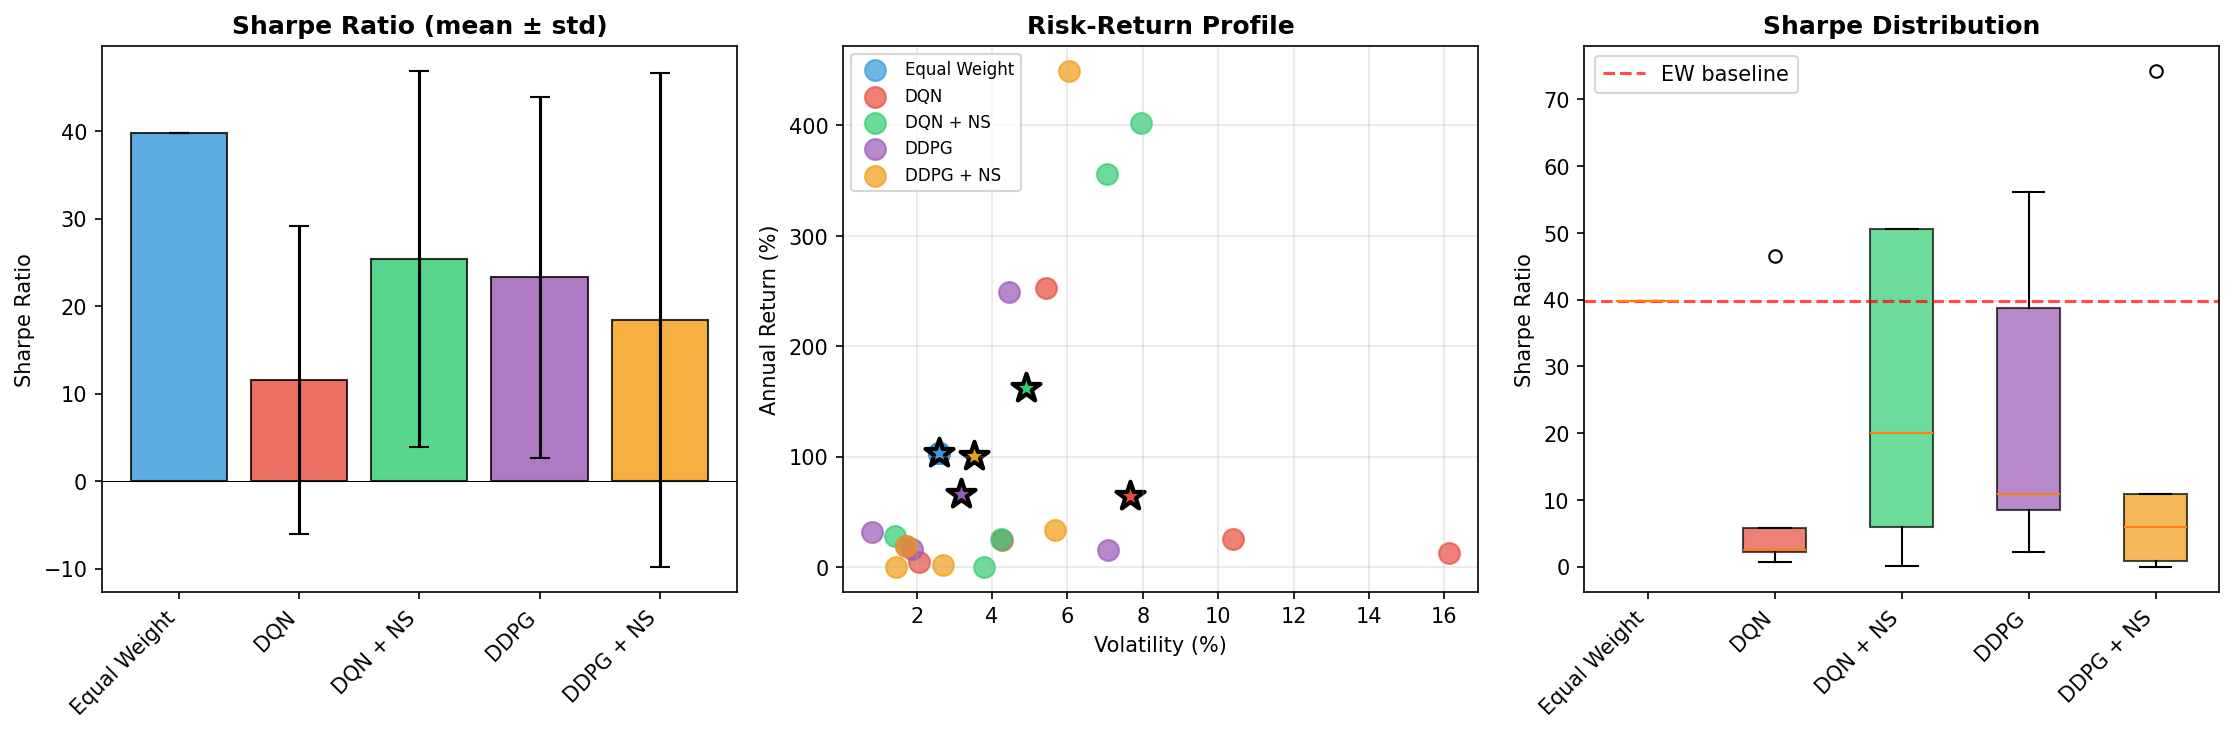
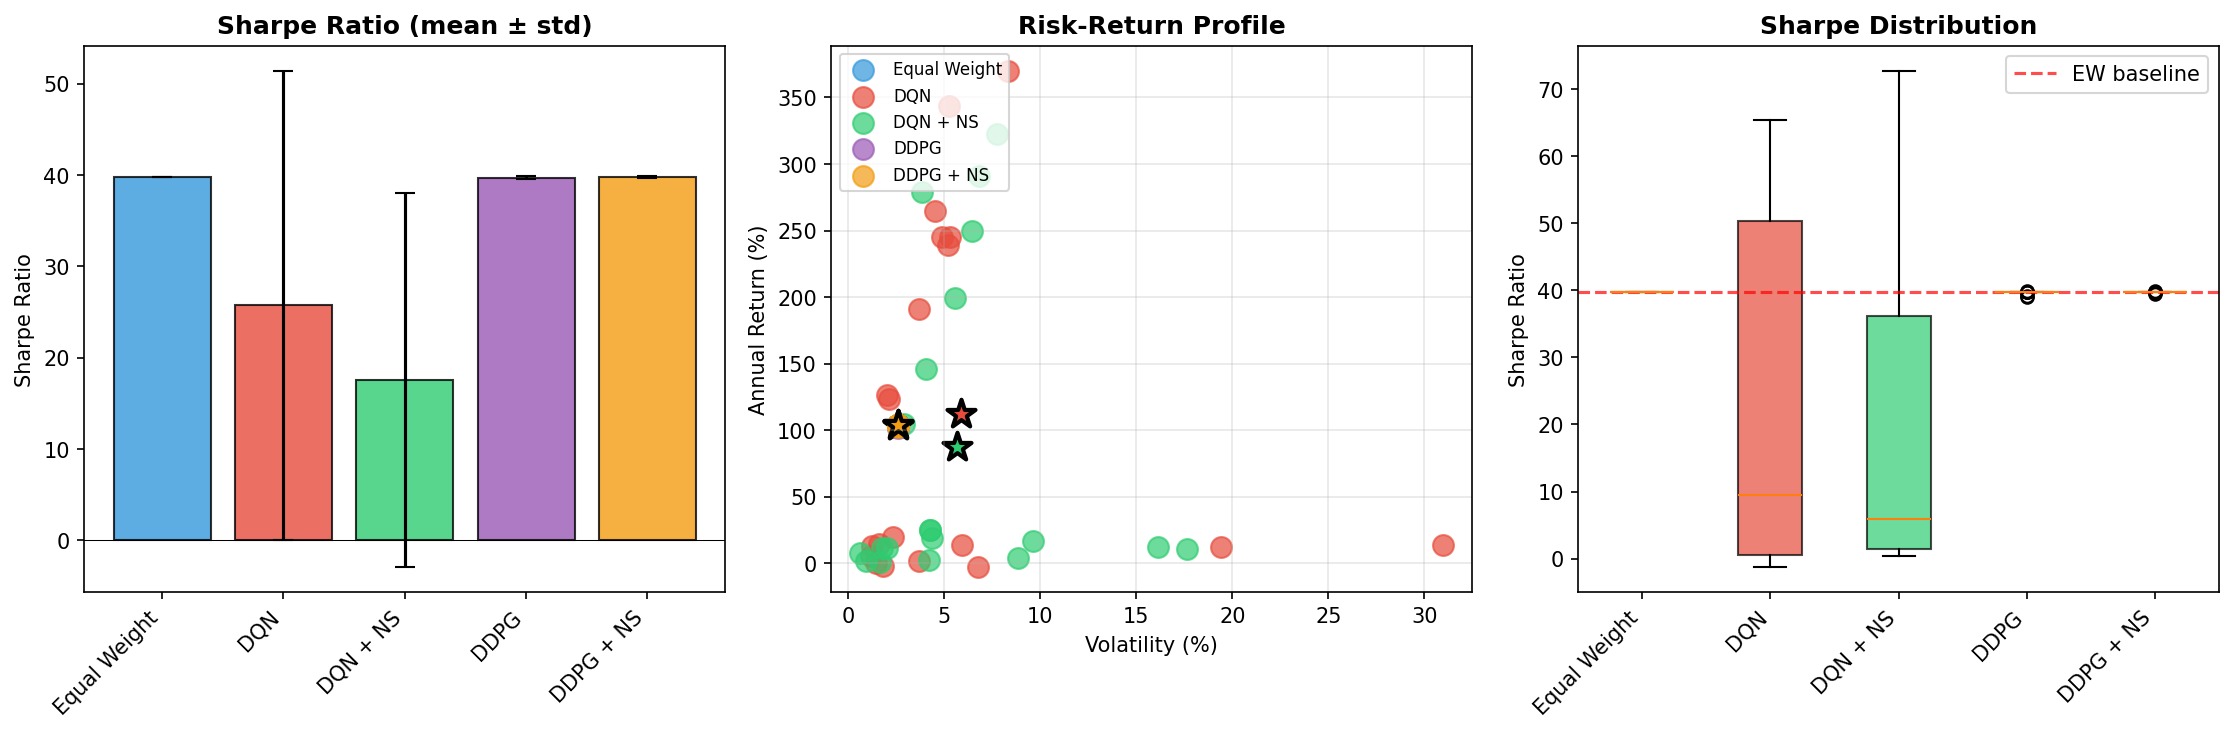
adjusting entropy and NS

diff --git a/experiments/improved_compare.py b/experiments/improved_compare.py
@@ -48,7 +48,11 @@ def calculate_metrics(returns: np.ndarray) -> Dict[str, float]:
     
     # Sortino
     neg_returns = returns[returns < 0]
-    downside_vol = np.std(neg_returns) * np.sqrt(252) if len(neg_returns) > 0 else 1e-8
+    if len(neg_returns) > 1:
+      downside_vol = np.std(neg_returns) * np.sqrt(252)
+      downside_vol = max(downside_vol, 0.01)  # Floor at 1% to avoid explosion
+    else:
+      downside_vol = annual_vol  # Fallback to standard vol
     sortino = annual_return / downside_vol
     
     return {
@@ -277,12 +281,12 @@ def main():
         'num_epochs': 15,
         'risk_preference': -0.5,        # Standard risk penalty
         'risk_preference_ns': -1.0,     # HIGHER penalty for NS to control vol
-        'ns_alpha': 1.0,
+        'ns_alpha': 0.7,
         'ns_beta': 0.3,                 # Lower beta = less novelty pressure
     }
     
     lookback = 50
-    n_runs = 5
+    n_runs = 20
     
     print(f"\nRunning {n_runs} experiments...")
     print(f"Config: risk_pref={config['risk_preference']}, "

diff --git a/ddpg_trainer.py b/ddpg_trainer.py
@@ -414,6 +414,12 @@ class DDPGTrainer:
                 )
                 actor_loss = -q_value_for_actor
 
+                # Entropy regularization to encourage diversification
+                entropy_coef = 0.01  # Tune this
+                weights_for_entropy = portfolio_allocation + 1e-8  # Avoid log(0)
+                entropy = -torch.sum(weights_for_entropy * torch.log(weights_for_entropy))
+                actor_loss = actor_loss - entropy_coef * entropy  # Maximize entropy
+
                 # Regularization
                 if self.l1_lambda > 0:
                     l1_reg = sum(p.abs().sum() for p in self.actor.parameters())

diff --git a/qd/wrappers.py b/qd/wrappers.py
@@ -112,7 +112,7 @@ class NSWrapperNormalized(NSWrapper):
         alpha: float = 0.5,                    # [CHANGED] Was 1.0
         beta: float = 0.5,                     # [CHANGED] Was 1.0  
         archive: Optional[NoveltyArchive] = None,
-        warmup_episodes: int = 10,             # [NEW] Warmup before normalization
+        warmup_episodes: int = 20,             # [NEW] Warmup before normalization
         use_running_stats: bool = True,        # [NEW] Use EMA for efficiency
         ema_decay: float = 0.99,               # [NEW] EMA decay factor
     ):

diff --git a/ddpg.py b/ddpg.py
@@ -64,7 +64,7 @@ class DDPG:
         gamma: float = 1.0,
         num_epochs: int = 50,
         early_stopping: bool = True,
-        patience: int = 2,
+        patience: int = 5,
         min_delta: float = 0,
         use_ns: bool = False,
         ns_alpha: float = 1.0,

diff --git a/deep_q_learning.py b/deep_q_learning.py
@@ -65,7 +65,7 @@ class DeepQLearning:
         gamma: float = 0.99,
         num_epochs: int = 50,
         early_stopping: bool = True,
-        patience: int = 2,
+        patience: int = 5,
         min_delta: float = 0,
         num_action_samples: int = 10,
         # NS
